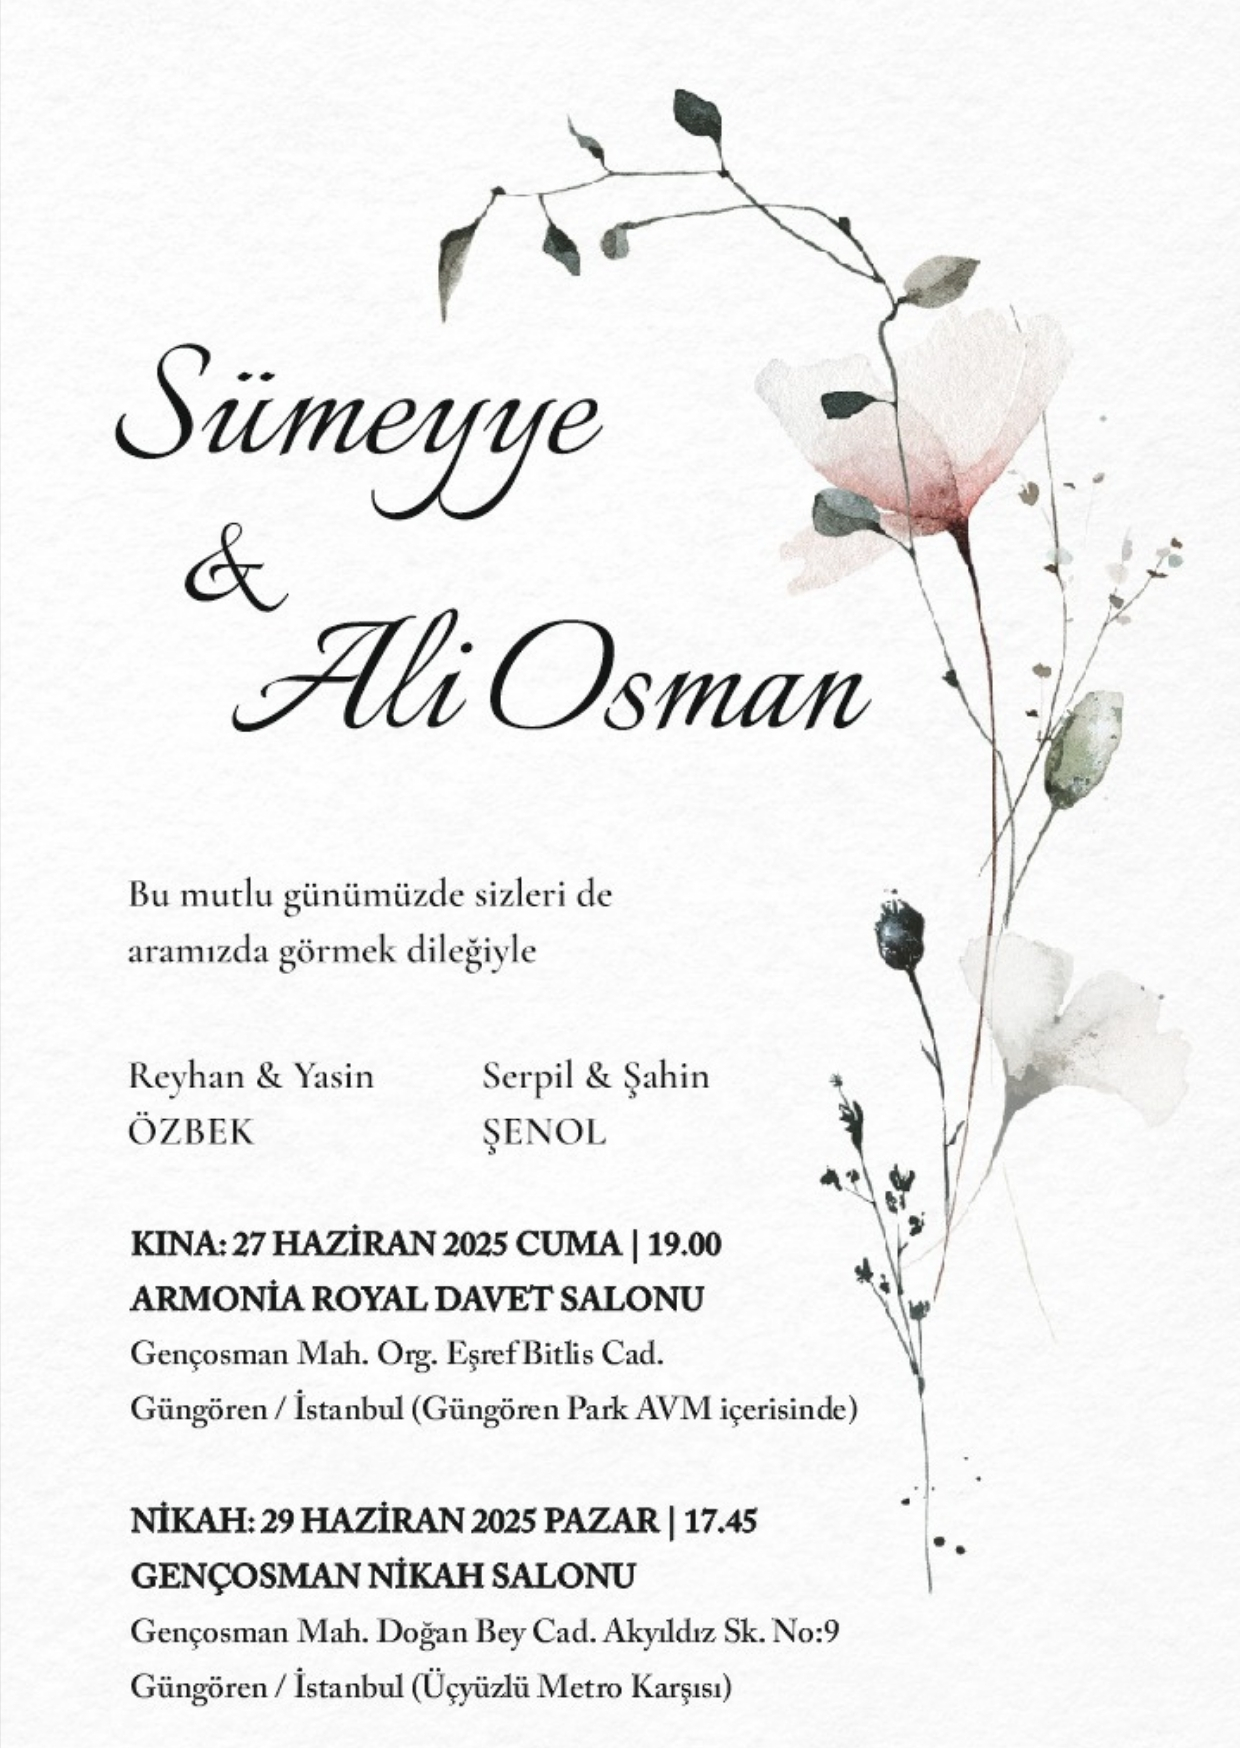
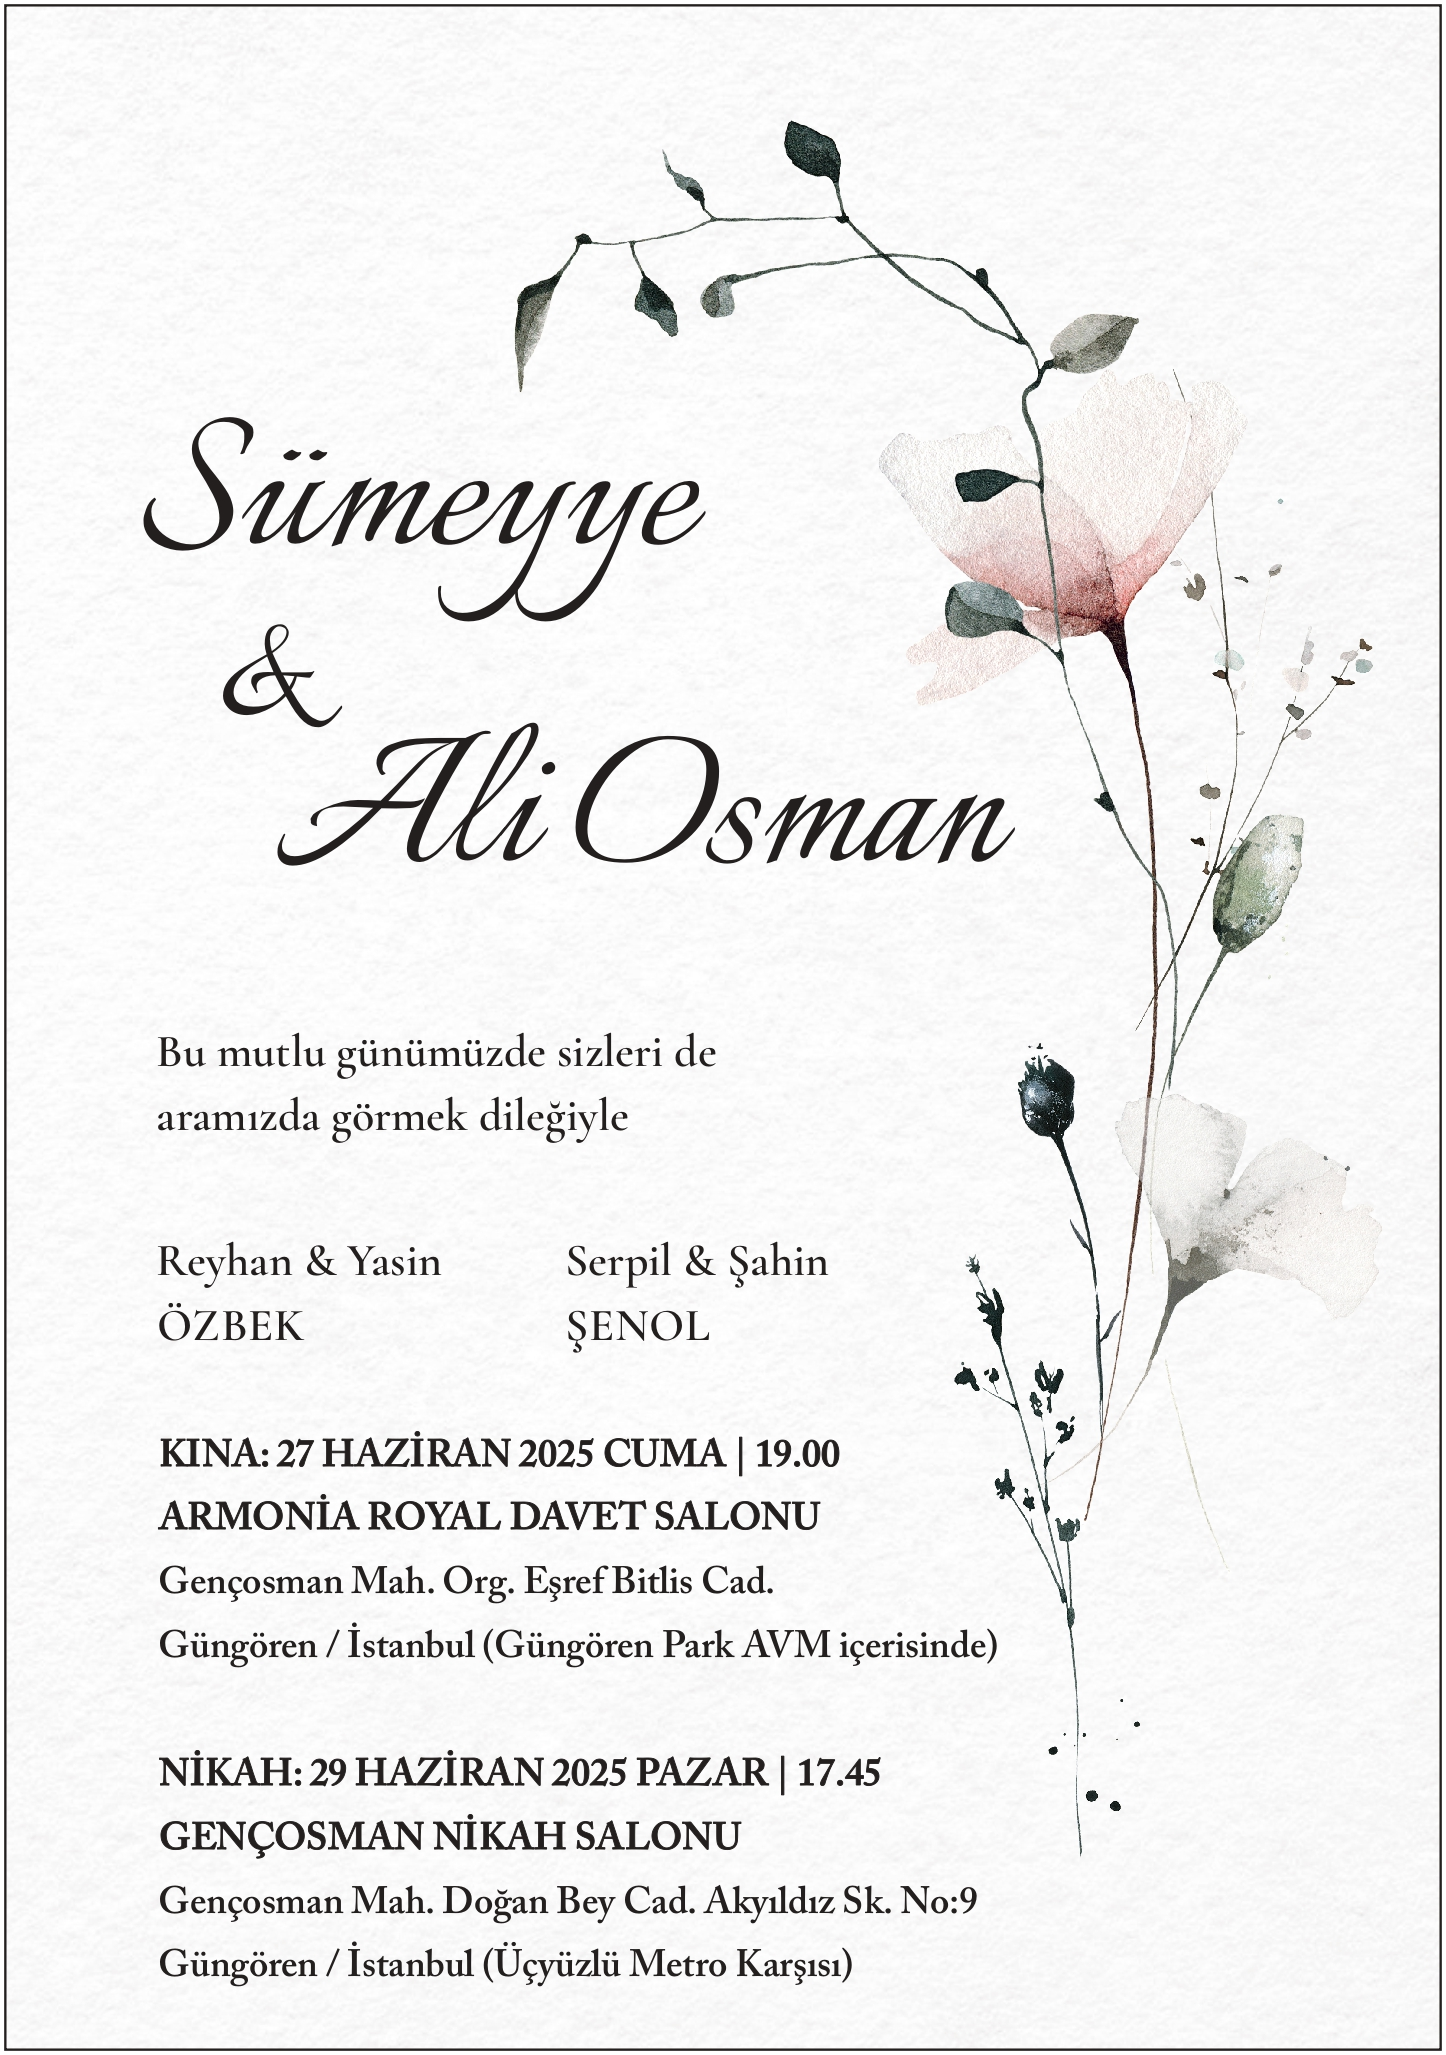
AOS güncelleme

diff --git a/aos/index.html b/aos/index.html
@@ -117,7 +117,7 @@
 
     <header>
 <!--        <h1>Sümeyye & Ali Osman</h1>-->
-        <img src="davetiye.JPG" alt="Düğün Davetiyesi">
+        <img src="davetiye.JPG" alt="Nikah Davetiyesi">
     </header>
 
     <div class="container">
@@ -140,8 +140,12 @@
         <!-- Gelin Alma -->
         <div class="section" id="gelin-alma">
             <h2>Gelin Alma</h2>
-            <p><strong>Zaman:</strong> 29 Haziran 2025 Pazar 16:00</p>
-            <p><strong>Adres:</strong> Menderes Mahallesi 346. Sokak </br>Esenler/İstanbul </p>
+            <p>
+                <strong>Zaman:</strong> 29 Haziran 2025 Pazar
+                <br>16:30 (Toplanma)
+                <br>17:00 (Nikah alanına hareket)
+            </p>
+            <p><strong>Adres:</strong> Menderes Mahallesi 346. Sokak No:23</br>Esenler/İstanbul </p>
             <div class="map-container">
                 <iframe src="https://www.google.com/maps/embed?pb=!1m18!1m12!1m3!1d3009.230663650775!2d28.8754022!3d41.042084599999995!2m3!1f0!2f0!3f0!3m2!1i1024!2i768!4f13.1!3m3!1m2!1s0x14cabab8941586e3%3A0xd4781a887224f5f9!2sMenderes%2C%20346.%20Sk.%20No%3A23%20D%3A3%2C%2034225%20Esenler%2F%C4%B0stanbul!5e0!3m2!1sen!2str!4v1747139644966!5m2!1sen!2str" width="600" height="450" style="border:0;" allowfullscreen="" loading="lazy" referrerpolicy="no-referrer-when-downgrade"></iframe>
             </div>
@@ -152,9 +156,9 @@
             </div>
         </div>
 
-        <!-- Düğün -->
+        <!-- Nikah -->
         <div class="section" id="dugun-salonu">
-            <h2>Düğün</h2>
+            <h2>Nikah</h2>
             <p><strong>Zaman:</strong> 29 Haziran 2025 Pazar 17:45</p>
             <p><strong>Adres:</strong> Güngören Belediyesi Gençosman Kültür Merkezi ve Nikah Salonu </br>Güngören/İstanbul</p>
             <div class="map-container">
